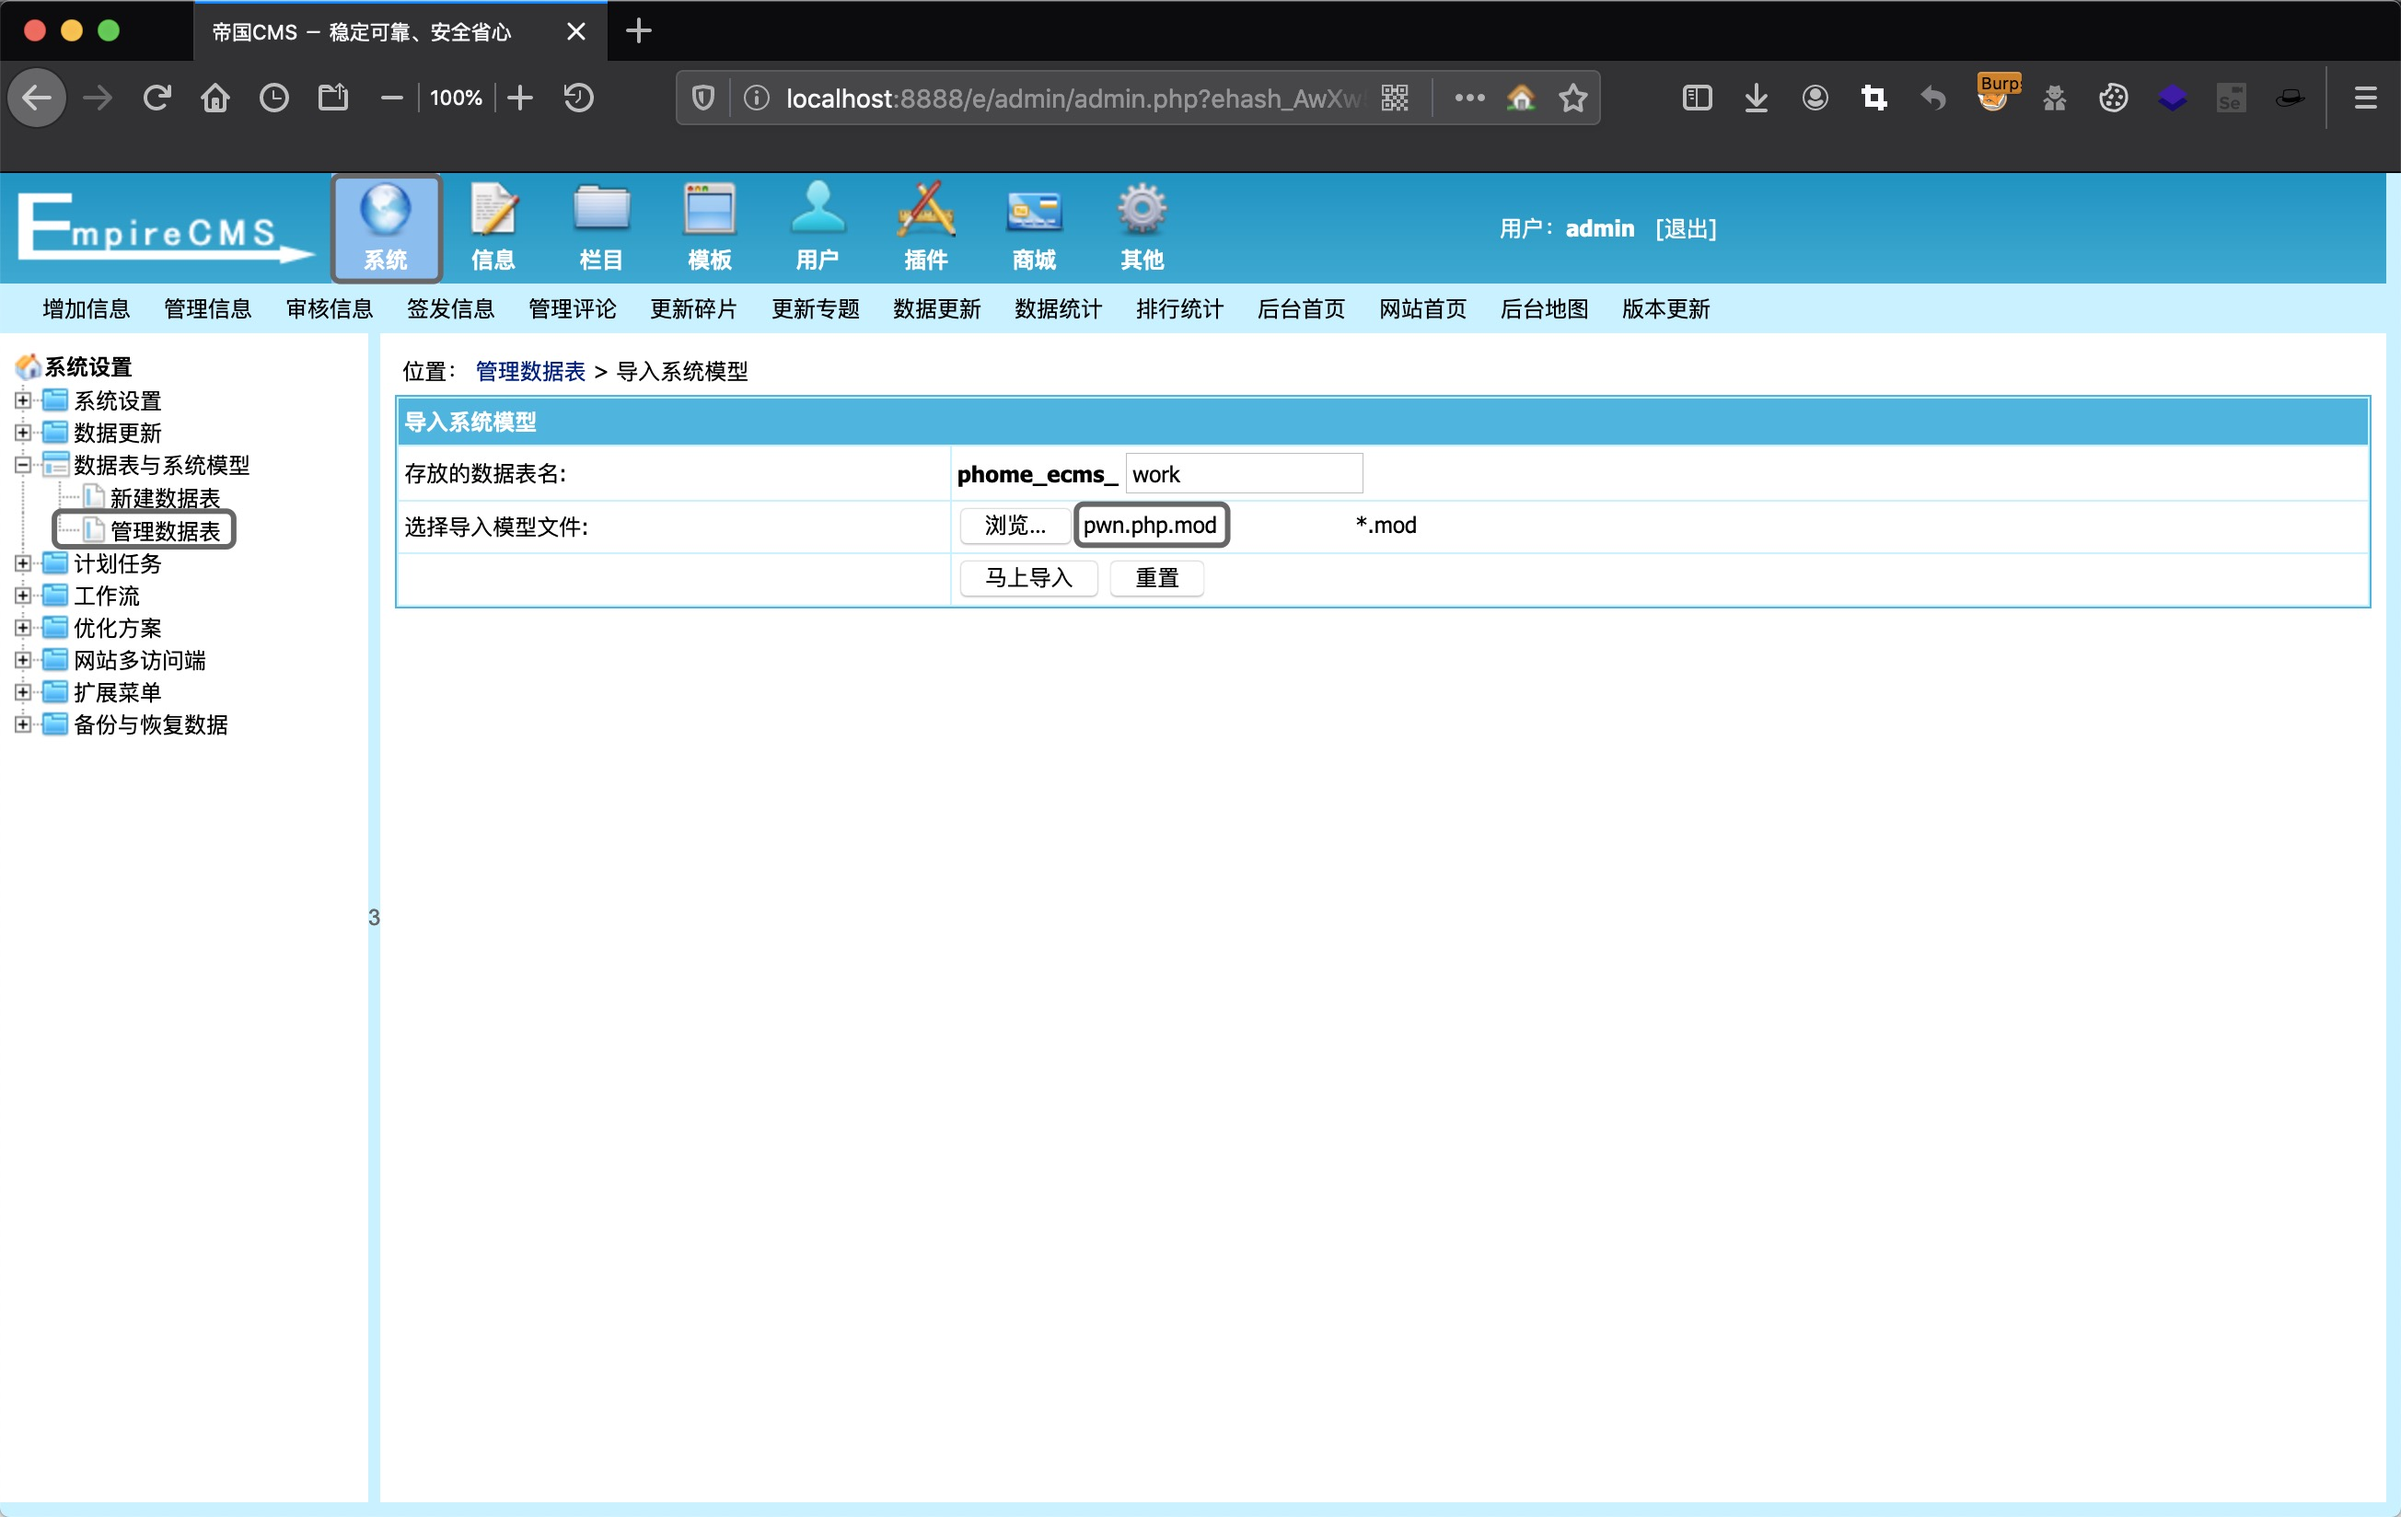
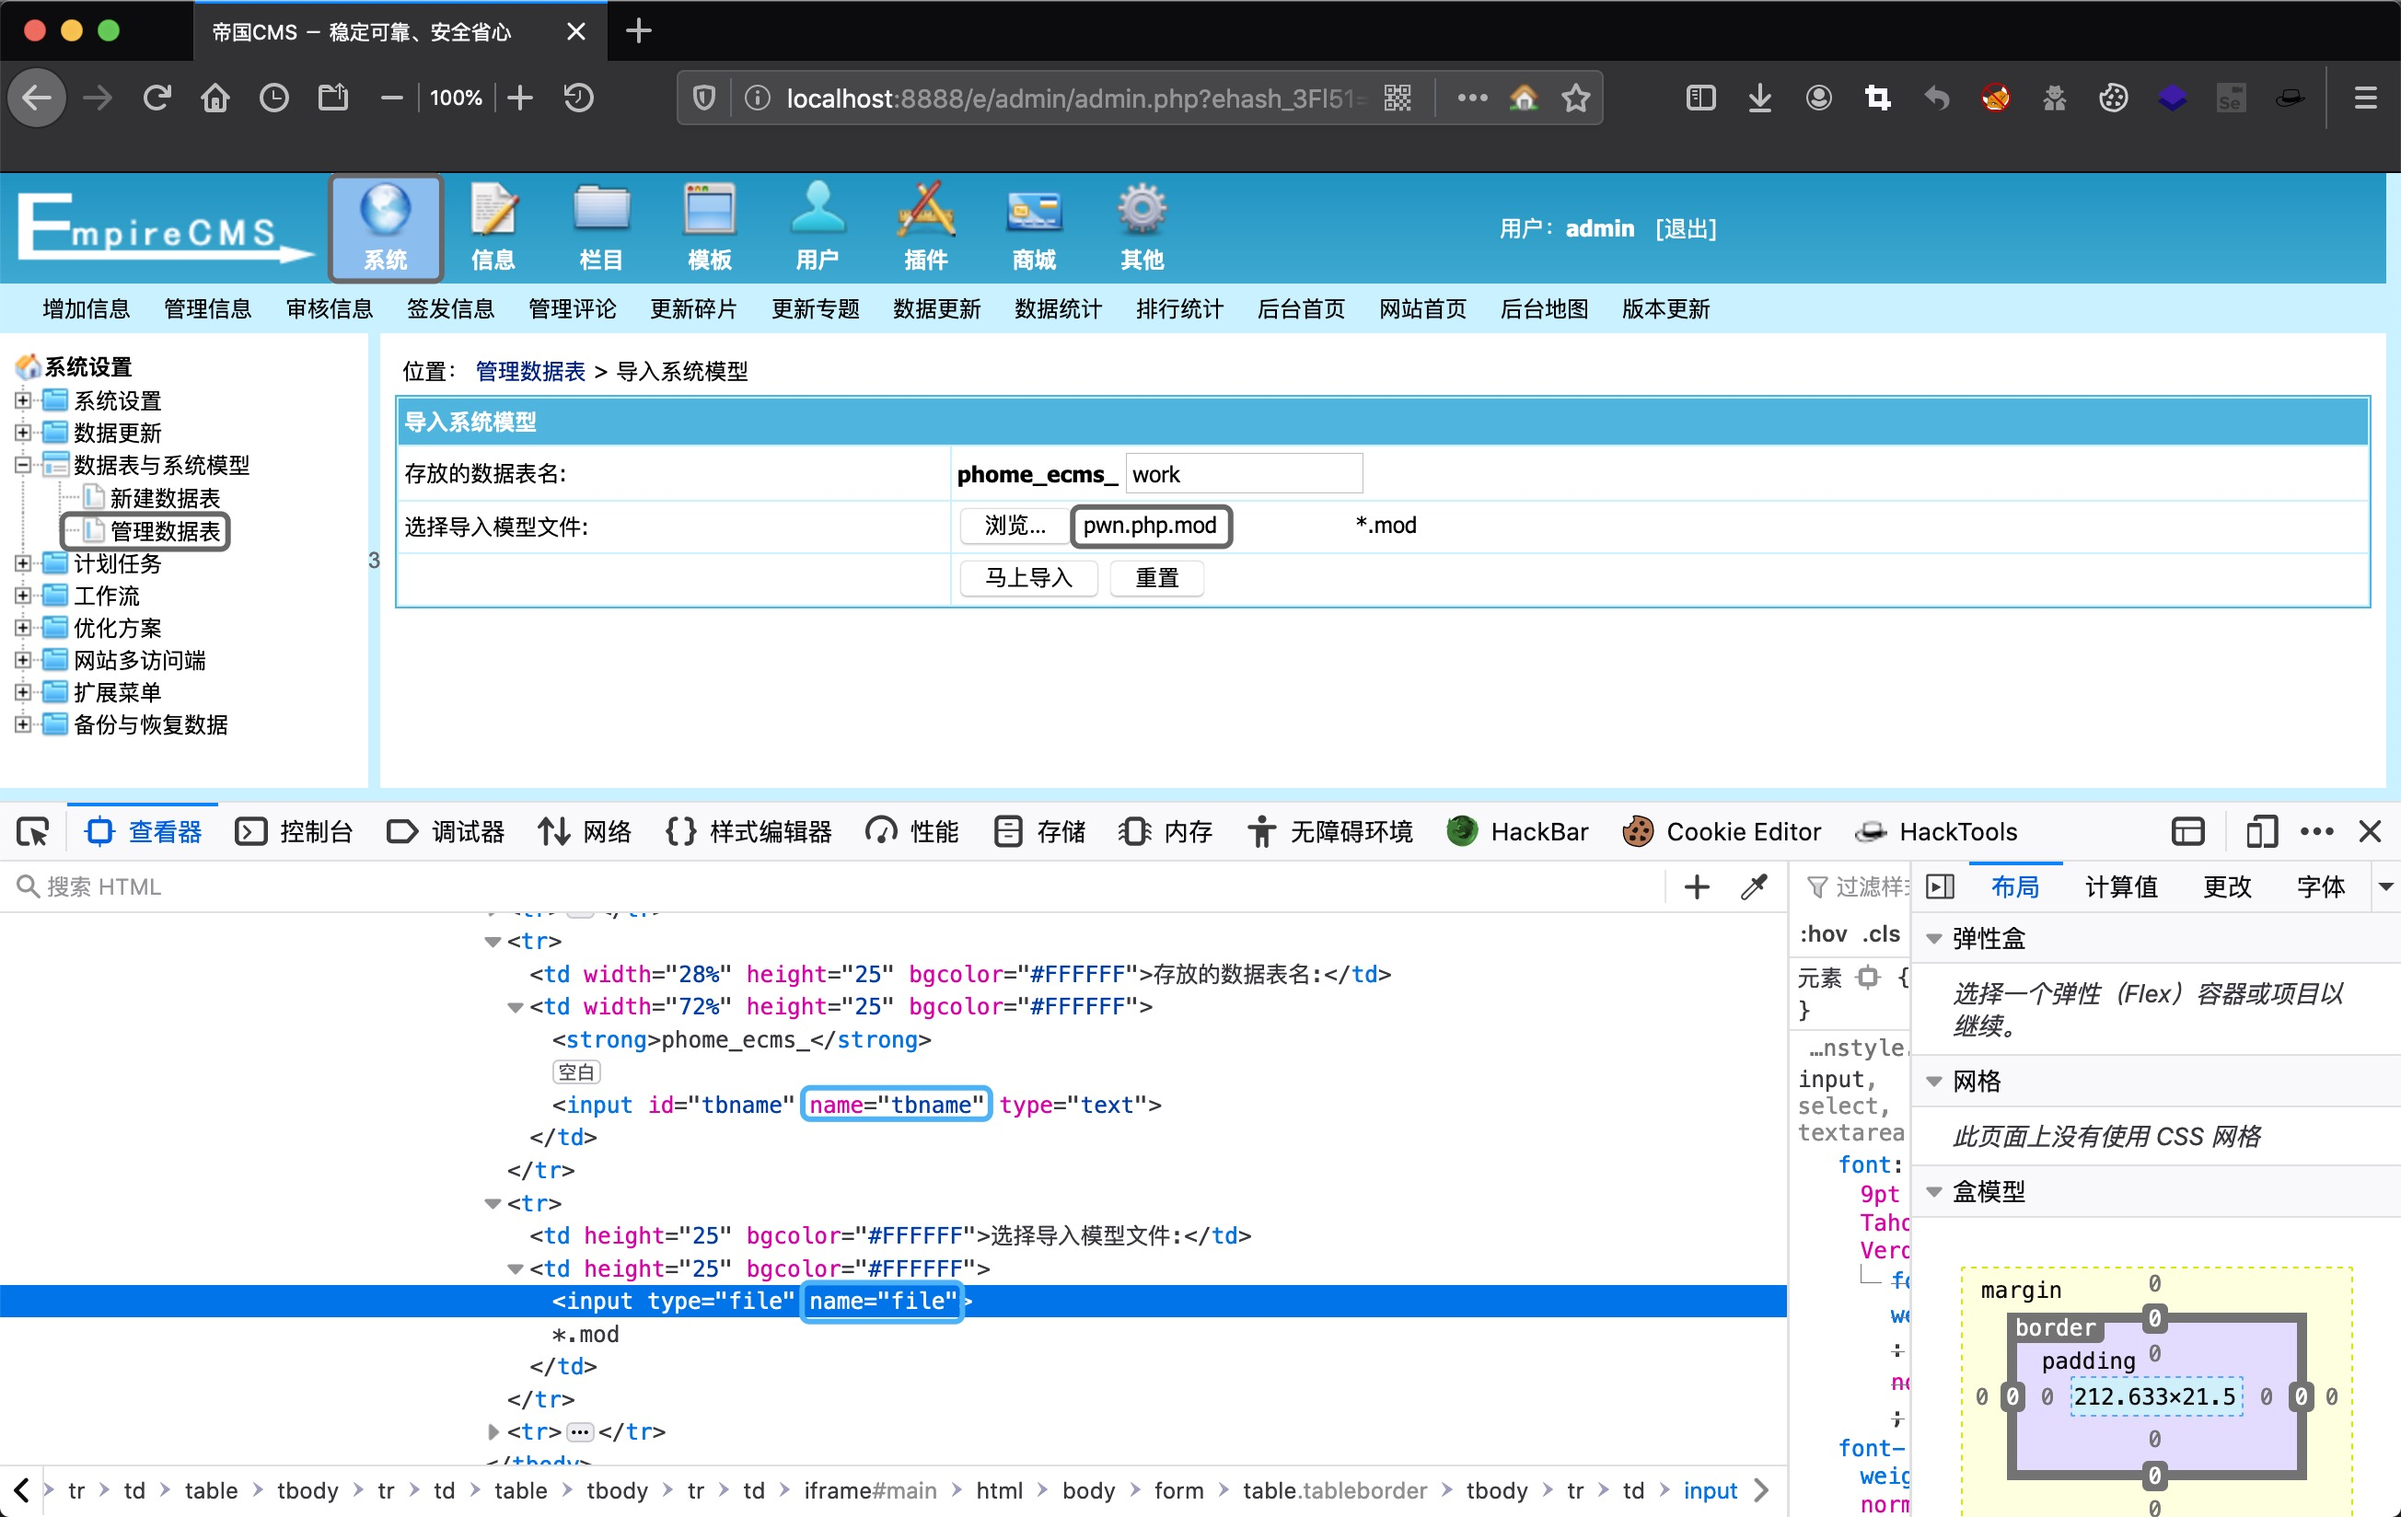
blog

diff --git a/blog/2021-5-30.html b/blog/2021-5-30.html
@@ -84,7 +84,7 @@
 
                 <h2 class="section-heading">前言</h2>
 
-                <p>&nbsp;&nbsp;&nbsp;光是审计框架肯定是不够的，用cms来练习代码审计，会对功能点的黑白盒测试有很大的帮助。
+                <p>&nbsp;&nbsp;&nbsp;光是审计框架肯定是不够的，用cms来练习代码审计，会对功能点的黑白盒测试有很大的帮助，
                 	所以近期准备分析一下几个cms。</p>
 
                 <h2 class="section-heading">配置环境</h2>
@@ -115,7 +115,7 @@
                     <img class="img-fluid" src="../img/2021-5-30/pop-1-1.jpg" alt="">
                 </a>
                 
-                <p>&nbsp;&nbsp;&nbsp;按图片步骤上传模型文件导入。</p>
+                <p>&nbsp;&nbsp;&nbsp;按图片步骤上传模型文件导入，再从前端参数定位功能点的代码段。</p>
 
                 <a href="#">
                     <img class="img-fluid" src="../img/2021-5-30/pop-1-2.jpg" alt="">
